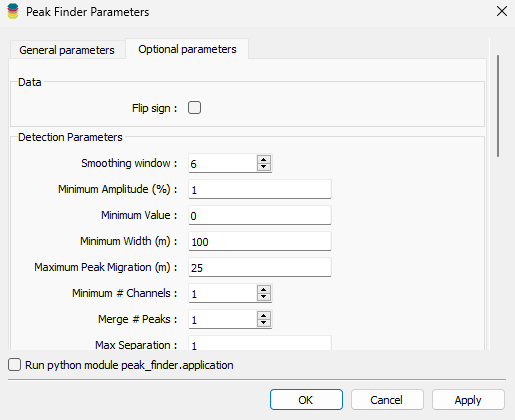
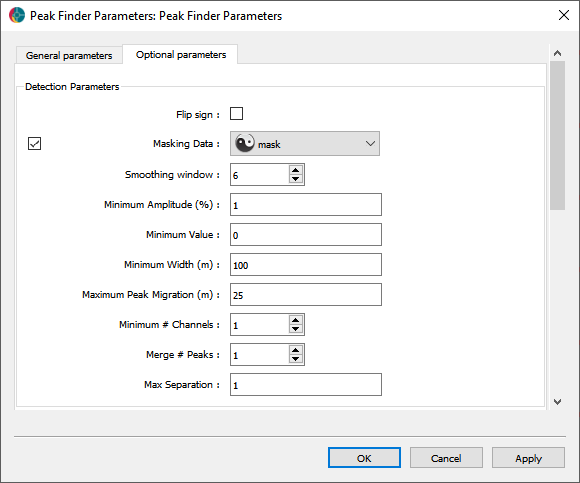
Bulk edits. Add figures

diff --git a/docs/source/methodology.rst b/docs/source/methodology.rst
@@ -46,115 +46,18 @@ proximity:
 .. figure:: /images/methodology/peak_finder_params.png
     :name: anomaly
 
+Detection Parameters
+--------------------
 
-.. _Minimum Amplitude:
+.. _Masking Data:
 
-Minimum Amplitude
-~~~~~~~~~~~~~~~~~
+Masking Data
+~~~~~~~~~~~~
 
-.. autoproperty:: peak_finder.params.PeakFinderParams.min_amplitude
+.. autoproperty:: peak_finder.params.PeakFinderParams.masking_data
 
-Threshold value (:math:`\delta A`) for filtering small anomalies based on the anomaly
-minimum (:math:`d_{min}`) and maximum (:math:`d_{max}`).
-
-.. math::
-
-   \delta A = \left|\left|\frac{d_{max} - d_{min}}{d_{min}}\right|\right| \cdot 100
-
-See :ref:`figure <anomaly>` for a visual example of the anomaly amplitude.
-
-.. todo::
-
-   Add figure showing the effect on anomaly identification
-
-
-.. _Minimum Data Value:
-
-Minimum Data Value
-~~~~~~~~~~~~~~~~~~
-
-.. autoproperty:: peak_finder.params.PeakFinderParams.min_value
-
-The minimum data threshold (:math:`\delta_d`) (see :ref:`Figure <anomaly>`) can be defined by:
-
-.. math::
-
-   \begin{equation}
-   d_i =
-   \begin{cases}
-   d_i & \;\text{for } d_i > \delta_d \\
-   nan & \;\text{for } d_i \leq \delta_d\\
-   \end{cases}
-   \end{equation}
-
-.. todo::
-
-    Add figure showing the effect on anomaly identification
-
-
-.. _Minimum Width:
-
-Minimum Width
-~~~~~~~~~~~~~
-
-.. autoproperty:: peak_finder.params.PeakFinderParams.min_width
-
-.. todo::
-
-    Add figure showing the effect of anomaly identification
-
-See :ref:`figure <anomaly>` for a visual example of the anomaly width.
-
-.. _Maximum Peak Migration:
-
-Maximum Peak Migration
-~~~~~~~~~~~~~~~~~~~~~~
-
-.. autoproperty:: peak_finder.params.PeakFinderParams.max_migration
-
-.. todo::
-
-    Add figure showing the effect of anomaly identification
-
-See :ref:`figure <anomaly>` for a visual example of migration within a
-group of anomalies.
-
-.. _Minimum number of channels:
-
-Minimum number of channels
-~~~~~~~~~~~~~~~~~~~~~~~~~~
-
-.. autoproperty:: peak_finder.params.PeakFinderParams.min_channels
-
-.. todo::
-
-    Add figure showing the effect of anomaly identification
-
-See :ref:`figure <anomaly>` for a visual example of channels making up a
-group of anomalies.
-
-.. _Merge N Peaks:
-
-Merge N Peaks
-~~~~~~~~~~~~~
-
-.. autoproperty:: peak_finder.params.PeakFinderParams.n_groups
-
-.. todo::
-
-    Add figure showing the effect of anomaly identification
-
-.. _Max Group Separation:
-
-Max Group Separation
-~~~~~~~~~~~~~~~~~~~~
-
-.. autoproperty:: peak_finder.params.PeakFinderParams.max_separation
-
-.. todo::
-
-    Add figure showing the effect of anomaly identification
-
+Masking data is used to filter out data points that are not considered by the algorithm.
+This is useful for focusing on specific regions of interest.
 
 .. _Smoothing:
 
@@ -176,16 +79,106 @@ neighbours used in the mean.
 
    Add reference figure shown for plot residuals.
 
-Show residual
+
+.. _Minimum Amplitude:
+
+Minimum Amplitude
+~~~~~~~~~~~~~~~~~
+
+.. autoproperty:: peak_finder.params.PeakFinderParams.min_amplitude
+
+Threshold value (:math:`\delta A`) for filtering small anomalies based on the anomaly
+minimum (:math:`d_{min}`) and maximum (:math:`d_{max}`).
+
+.. math::
+
+   \delta A = \left|\left|\frac{d_{max} - d_{min}}{d_{min}}\right|\right| \cdot 100
+
+See :ref:`figure <anomaly>` for a visual example of the anomaly amplitude.
+
+.. figure:: /images/methodology/min amplitude.png
+    :name: amplitude
+
+
+.. _Minimum Data Value:
+
+Minimum Data Value
+~~~~~~~~~~~~~~~~~~
+
+.. autoproperty:: peak_finder.params.PeakFinderParams.min_value
+
+The minimum data threshold (:math:`\delta_d`) (see :ref:`Figure <anomaly>`) can be defined by:
+
+.. math::
+
+   \begin{equation}
+   d_i =
+   \begin{cases}
+   d_i & \;\text{for } d_i > \delta_d \\
+   nan & \;\text{for } d_i \leq \delta_d\\
+   \end{cases}
+   \end{equation}
+
+.. figure:: /images/methodology/min value.png
+    :name: value
+
+
+.. _Minimum Width:
+
+Minimum Width
 ~~~~~~~~~~~~~
 
-Option to show the positive (blue) and negative (red) :ref:`residual <anomaly>` between the
-original and smoothed profile. Useful to highlight smaller anomalies within
-larger trends.
+.. autoproperty:: peak_finder.params.PeakFinderParams.min_width
 
-.. _Masking Data:
+The minimum distance (m) between the start and the end of an anomaly group to be considered.
 
-Masking Data
-~~~~~~~~~~~~
+.. figure:: /images/methodology/min width.png
+    :name: width
 
-.. autoproperty:: peak_finder.params.PeakFinderParams.masking_data
+
+.. _Maximum Peak Migration:
+
+Maximum Peak Migration
+~~~~~~~~~~~~~~~~~~~~~~
+
+.. autoproperty:: peak_finder.params.PeakFinderParams.max_migration
+
+The maximum distance (m) between the peaks within a group of anomalies. This
+parameter depends on the :ref:`Minimum number of channels <Minimum number of channels>`.
+
+See :ref:`figure <anomaly>` for a visual example of migration within a
+group of anomalies.
+
+.. _Minimum number of channels:
+
+Minimum number of channels
+~~~~~~~~~~~~~~~~~~~~~~~~~~
+
+.. autoproperty:: peak_finder.params.PeakFinderParams.min_channels
+
+The minimum number of data channels required to form a group of anomalies.
+
+See :ref:`figure <anomaly>` for a visual example of channels making up a
+group of anomalies.
+
+.. _Merge N Peaks:
+
+Merge N Peaks
+~~~~~~~~~~~~~
+
+.. autoproperty:: peak_finder.params.PeakFinderParams.n_groups
+
+Post-grouping of anomalies based on the number of consicutive peaks. The parameter
+depends on the :ref:`Max Group Separation <Max Group Separation>`.
+
+.. figure:: /images/methodology/merge peaks.png
+    :name: merge
+
+.. _Max Group Separation:
+
+Max Group Separation
+~~~~~~~~~~~~~~~~~~~~
+
+.. autoproperty:: peak_finder.params.PeakFinderParams.max_separation
+
+The maximum distance (m) between the start and the end of a neighboring groups.

diff --git a/docs/source/interactive_application.rst b/docs/source/interactive_application.rst
@@ -9,18 +9,36 @@ section of data along a single line and a plan view to locate the chosen and
 adjacent lines and anomaly picks in cartesian space.
 
 .. figure:: /images/interactive/visualizations.png
-    :scale: 40%
 
 
 The ui controls section is divided into three subsections:
 
-- `Visual Parameters`_
-- `Data Selection`_
 - `Detection Parameters`_
+- `Visual Parameters`_
 
 .. figure:: /images/interactive/ui_controls.png
-    :scale: 40%
 
+
+Detection Parameters
+~~~~~~~~~~~~~~~~~~~~
+
+The detection parameters are those that the peak-finder application uses to
+tune the characterization and detection of anomalies within the data.  Most
+of these are already described in the :ref:`Methodology` section.  Follow
+the links for detailed descriptions of each parameter.
+
+.. figure:: /images/parameters/detection_parameters.png
+   :align: left
+
+
+- :ref:`Smoothing window <Smoothing>`
+- :ref:`Minimum Amplitude (%) <Minimum Amplitude>`
+- :ref:`Minimum Value <Minimum Data Value>`
+- :ref:`Minimum Width (m) <Minimum Width>`
+- :ref:`Max Peak Migration (m) <Maximum Peak Migration>`
+- :ref:`Minimum # Channels <Minimum number of channels>`
+- :ref:`Merge # Peaks <Merge N Peaks>`
+- :ref:`Max Separation <Max Group Separation>`
 
 
 Visual Parameters
@@ -130,34 +148,9 @@ ____________
 
    Update docstring and add figure showing the effect of flipping y.
 
-Select group colors
-___________________
 
-.. todo::
-
-   Add figure of color picker widget.  Move this ui to visualization group?
-
-Detection Parameters
-~~~~~~~~~~~~~~~~~~~~
-
-The detection parameters are those that the peak-finder application uses to
-tune the characterization and detection of anomalies within the data.  Most
-of these are already described in the :ref:`Methodology` section.  Follow
-the links for detailed descriptions of each parameter.
-
-.. figure:: /images/parameters/detection_parameters.png
-   :align: left
-
-
-- :ref:`Smoothing window <Smoothing>`
-- :ref:`Minimum Amplitude (%) <Minimum Amplitude>`
-- :ref:`Minimum Value <Minimum Data Value>`
-- :ref:`Minimum Width (m) <Minimum Width>`
-- :ref:`Max Peak Migration (m) <Maximum Peak Migration>`
-- :ref:`Minimum # Channels <Minimum number of channels>`
-- :ref:`Merge # Peaks <Merge N Peaks>`
-- :ref:`Max Separation <Max Group Separation>`
-
+Output Parameters
+~~~~~~~~~~~~~~~~~
 
 Save as
 _______
@@ -168,17 +161,7 @@ _______
 
    Update docstring and add figure showing resulting object saved in GA.
 
-Output Path
-___________
-
-Provide absolute path to save the output to.
-
-Geoscience ANALYST Pro - Live link
-__________________________________
-
-If selected the output will be imported to the open GA sessions geoh5 file.
-
 EXPORT
 ______
 
-Saves the result
+Run the algorithm with the parameters selected and save the result to geoh5.

diff --git a/docs/source/index.rst b/docs/source/index.rst
@@ -7,24 +7,15 @@ can be exported to `Geoscience ANALYST <https://www.mirageoscience.com/mining-in
 along with various metrics for characterization and targeting.
 
 .. figure:: /images/interactive/visualizations.png
-    :scale: 40%
+
+The peak-finder application can operate in two modes:
+
+ - :ref:`Interactive <interactive_application>` (shown above)
+ - :ref:`Standalone <standalone_application>`
 
 While initially designed for TEM data, the same application can be used for
 characterization of anomalies of mixed data types (eg. magnetics, gravity,
 topography, etc..).
-
-New user?
----------
-
-Visit the :ref:`getting_started` page.
-
-Advanced user?
---------------
-
-Check out the :ref:`methodology` page to learn about the algorithm and it's
-parameters, or see :ref:`interactive_application` and :ref:`standalone_application`
-pages for information on how the application parameters may be set in an
-interactive mode or through the ui.json directly.
 
 .. toctree::
    :maxdepth: 1
@@ -34,3 +25,8 @@ interactive mode or through the ui.json directly.
    methodology
    interactive_application
    standalone_application
+
+New user?
+---------
+
+Visit the :ref:`getting_started` page.

diff --git a/docs/source/usage.rst b/docs/source/usage.rst
@@ -8,12 +8,6 @@ The main entry point is the ui.json (stored under peak-finder-assets) for the pe
  - :ref:`General Parameters <General Parameters>` (required)
  - :ref:`Optional Parameters <Optional Parameters>`
 
-The ui.json for the peak-finder application can operate in two modes:
-
- - :ref:`Interactive <interactive_application>`
- - :ref:`Standalone <standalone_application>`
-
-
 ui.json interface
 ~~~~~~~~~~~~~~~~~
 
